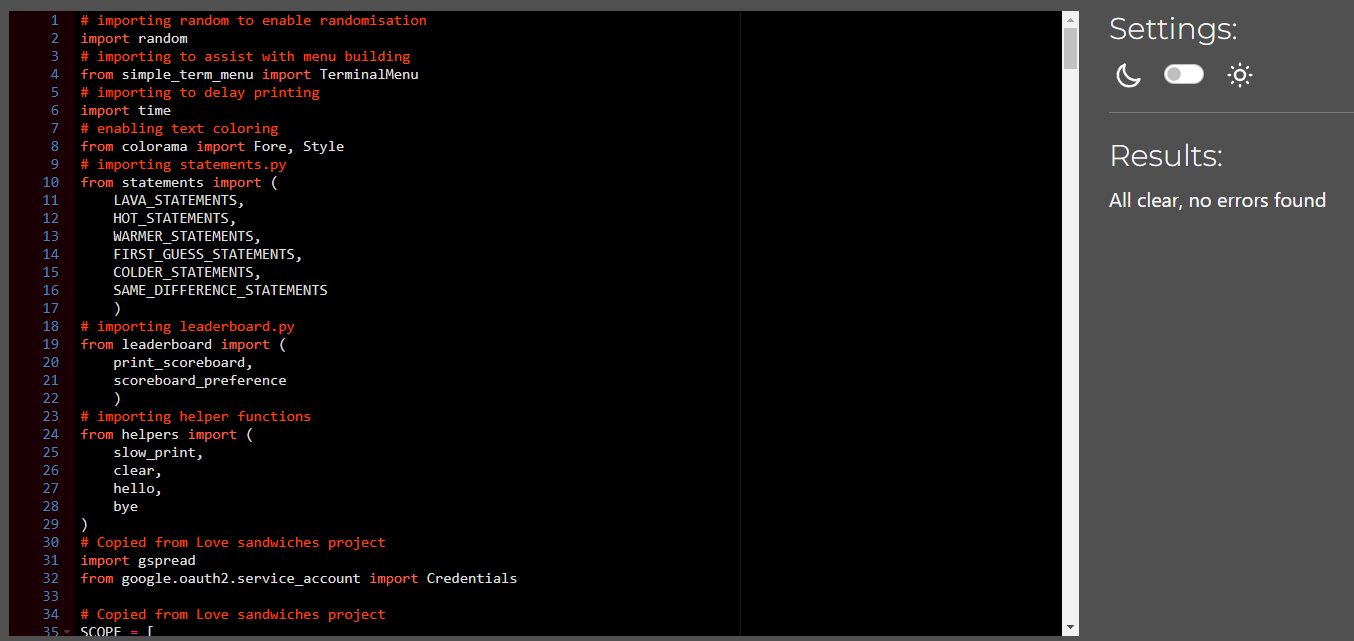
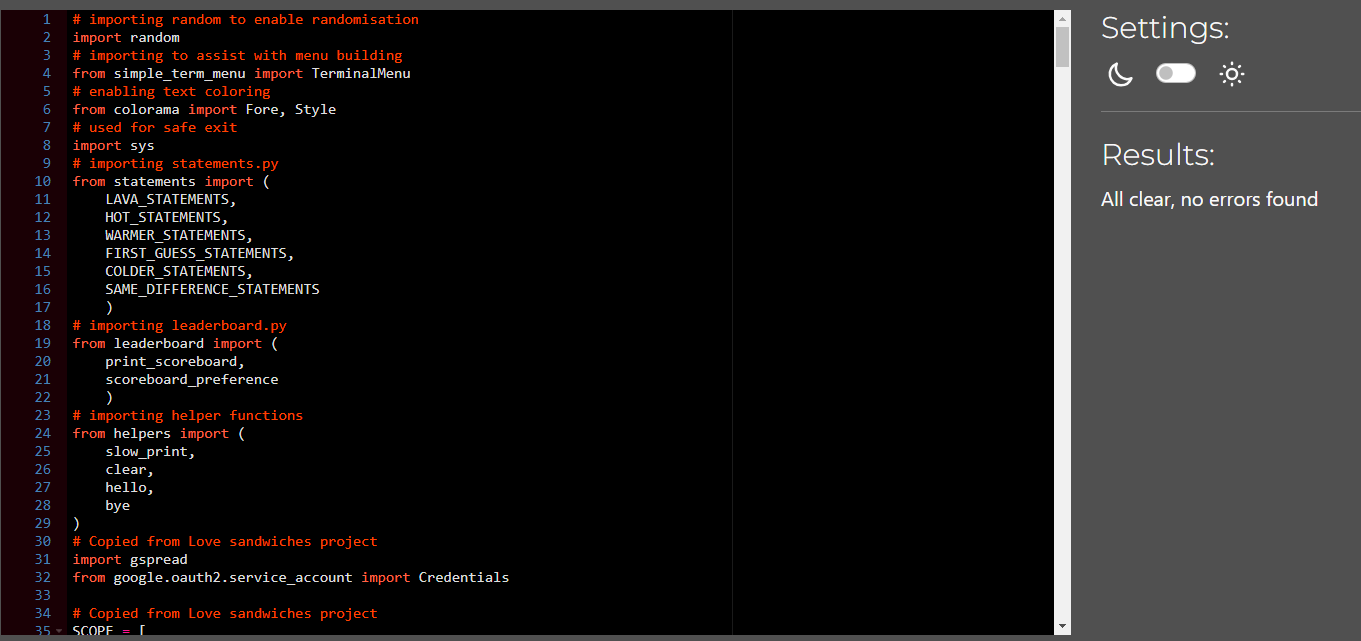
Update TerminalMenu constructor with quit_keys, bugs in TESTING

Changed region(s): [[0.0, 0.0, 0.3722, 0.9984], [0.7755, 0.0, 0.9926, 0.9984]]

diff --git a/run.py b/run.py
@@ -293,30 +293,35 @@ def main():
 
     # Main menu.
     main_menu = TerminalMenu(
-        main_options
-    )
+            main_options,
+            # removing default Q and Escape key crash
+            quit_keys=()
+        )
 
     while True:
-        # as simple-term-menu uses 'q' and 'Escape' as escape sequences,
-        # 'q', 'Escape' keys as well as 'Ctrl+C' call safe_exit()
         try:
             current_display = main_menu.show()
             user_choice = main_options[current_display]
+            # if choice is New game, calls difficulty_menu()
             if user_choice == "[1] New Game":
                 difficulty_menu()
                 return False
+            # if choice is About, calls about_info()
             elif user_choice == "[2] About":
                 about_info()
                 return False
+            # if choice is Leaderboard, calls leaderboard_info()
             elif user_choice == "[3] Leaderboard":
                 leaderboard_info()
                 return False
+            # if choice is Quit, calls quit_game()
             elif user_choice == "[4] Quit":
                 quit_game()
                 return False
+        # except statement allows for a safe exit with a goodbye message
         except TypeError:
             safe_exit()
-    
+
 
 def difficulty_menu():
     """
@@ -480,11 +485,6 @@ def quit_game():
         user_choice = quit_options[current_display]
         # if 'y', prints a goodbye message
         if user_choice == "[y] Yes":
-            clear()
-            print("Thank you for playing Hot or Cold. \n")
-            print("Hope to see you soon. \n")
-            # prints goodbye in grafitti
-            bye()
             # calls safe_exit()
             safe_exit()
         # if 'n', calls return_option()
@@ -501,6 +501,11 @@ def safe_exit():
     """
     Function safely exits the app.
     """
+    clear()
+    print("Thank you for playing Hot or Cold. \n")
+    print("Hope to see you soon. \n")
+    # prints goodbye in grafitti
+    bye()
     sys.exit()
 
 

diff --git a/TESTING.md b/TESTING.md
@@ -139,27 +139,31 @@ No issues were found during PEP8 testing, however, I am aware that this might ch
 
     - To fix this, I have included `player_guesses.clear()` within `run_game()` to flush out the previously stored data.
 
-**Unfixed Bugs**
-
 - Simple-term-menu uses 'q' and 'Escape' keys as escape sequences. As a result, although not manifested as options within my menus, these buttons would cause a crash when used within menus.
 
     ![screenshot](documentation/general/escape.gif)
 
-    - To fix this, I have surrounded my if-elif statements within `main()` with `try-except TypeError`, however, this caused `CTRL+C` not to perform as it would be read as `TypeError` when within menu. 
-    - Since preventing exit would be a bad practice, I have attempted to use pynput to read keyboard events in order to handle `CTRL+C` specific events, however, even after updating pynput I kept receiving the following error:
+    - To fix this, I have surrounded my `if-elif` statements within `main()` with `try-except TypeError`, however, this caused `CTRL+C` not to perform as it would be read as `TypeError` when within menu. 
+    - Since preventing exit would be a bad practice, I have attempted to use `pynput` to read keyboard events in order to handle `CTRL+C` specific events, however, even after updating pynput I kept receiving the following error:
 
-    `Traceback (most recent call last):`
-  `File "run.py", line 10, in <module>`
-    `from pynput import keyboard`
-  `File "/home/codeany/.local/lib/python3.8/site-packages/pynput/__init__.py", line 40, in <module>`
-    `from . import keyboard`
-  `File "/home/codeany/.local/lib/python3.8/site-packages/pynput/keyboard/__init__.py", line 31, in <module>`
-    `backend = backend(__name__)`
-  `File "/home/codeany/.local/lib/python3.8/site-packages/pynput/_util/__init__.py", line 76, in backend`
-    `raise ImportError('this platform is not supported: {}'.format(`
-`ImportError: this platform is not supported: ('failed to acquire X connection: Bad display name ""', DisplayNameError(''))`
+        `Traceback (most recent call last):`
+    `File "run.py", line 10, in <module>`
+        `from pynput import keyboard`
+    `File "/home/codeany/.local/lib/python3.8/site-packages/pynput/__init__.py", line 40, in <module>`
+        `from . import keyboard`
+    `File "/home/codeany/.local/lib/python3.8/site-packages/pynput/keyboard/__init__.py", line 31, in <module>`
+        `backend = backend(__name__)`
+    `File "/home/codeany/.local/lib/python3.8/site-packages/pynput/_util/__init__.py", line 76, in backend`
+        `raise ImportError('this platform is not supported: {}'.format(`
+    `ImportError: this platform is not supported: ('failed to acquire X connection: Bad display name ""', DisplayNameError(''))`
 
-    - As a result, I have opted to allow 'q' and 'Escape' keys to exit the app.
+    - After a short discussion with the Tutor team, I have come to understand that `quit_keys` within `simple-term-menus` can be changed from their defaults. 
+    
+    - As a final solution, I have left `try-except TypeError` but chose for any intended shut-down when within the menu to call `safe_exit()` which runs `sys.exit()`.
+
+**Unfixed Bugs**
+
+- To my knowledge, there are no unfixed bugs.
 
 
     
